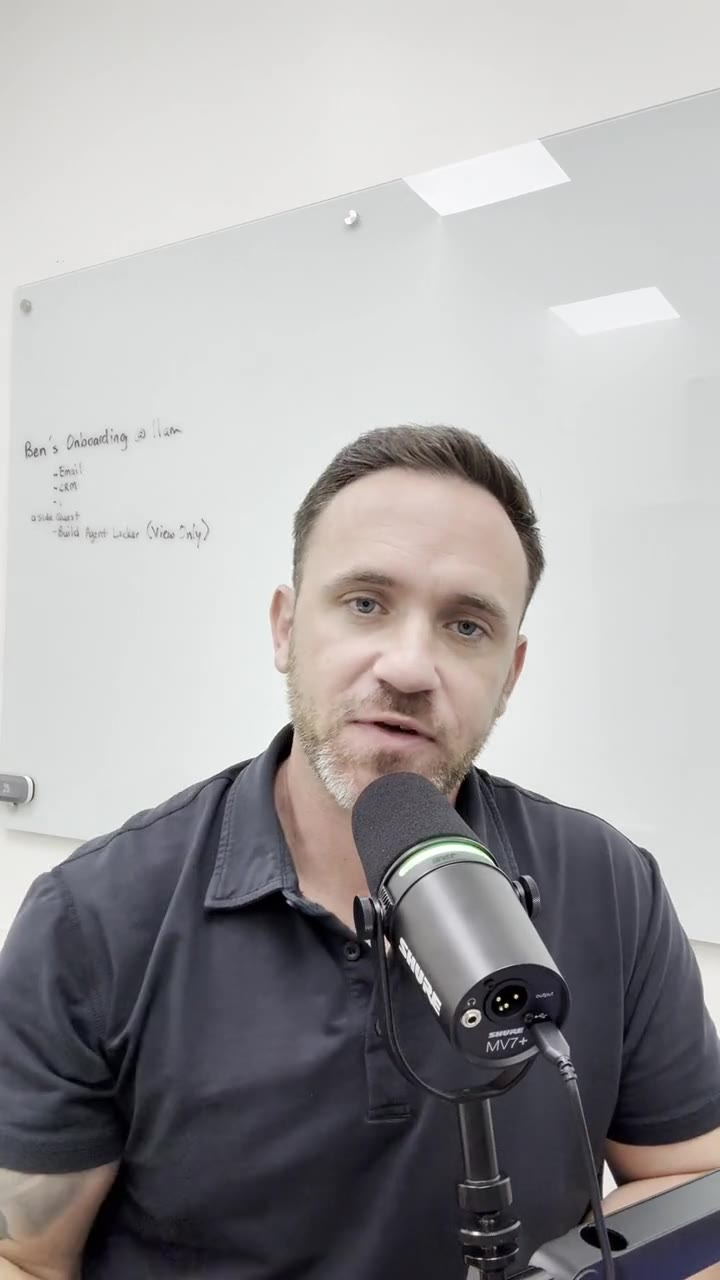
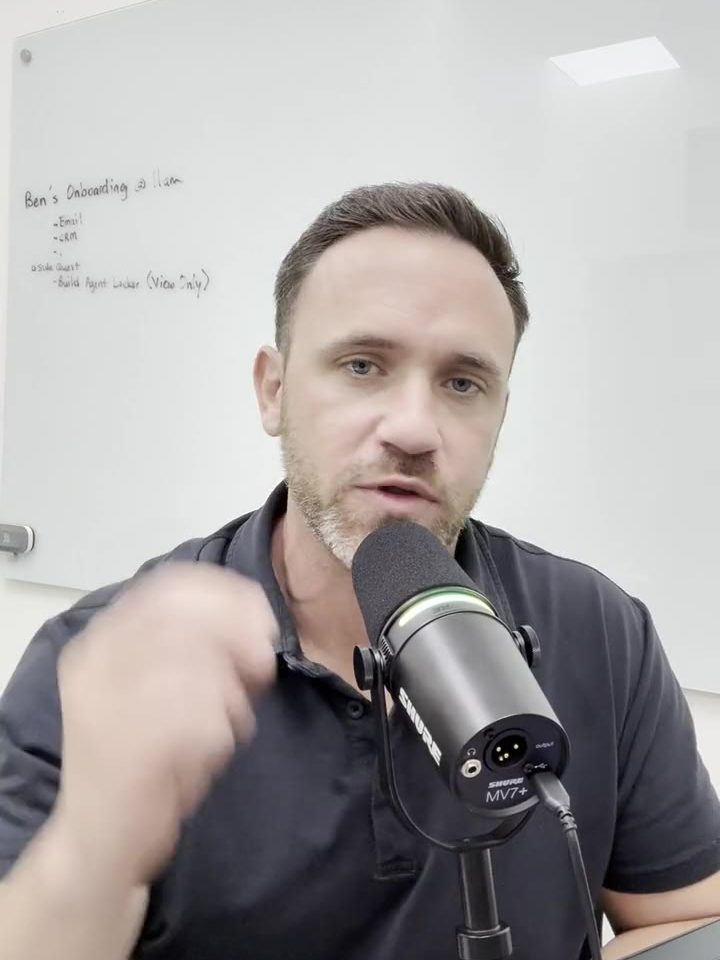
Fix the hero video card and recut its poster
The poster image was rendering at its raw 1280px attribute height
(missing height:auto meant the aspect-ratio never engaged), stretching
the hero card past the fold. The card now holds a 3:4 crop recut from a
livelier frame of the VSL, sized up slightly, with the full 9:16 video
still playing in the lightbox. The hero fits a single desktop viewport
again.

Claude-Session: https://claude.ai/code/session_016x4VnGuVg3frroGQGYtCCn

diff --git a/big-table/index.html b/big-table/index.html
@@ -181,13 +181,13 @@ html.js .reveal.in[data-d="2"]{transition-delay:.16s}
 @keyframes rise{to{opacity:1;transform:none}}
 
 /* the invitation — vertical VSL in a matted frame */
-.vsl{position:relative;justify-self:end;width:min(100%,340px)}
+.vsl{position:relative;justify-self:end;width:min(100%,380px)}
 .vsl-frame{
   position:relative;background:var(--stock-2);border:1px solid var(--rule-dim);
   padding:.7rem;box-shadow:0 30px 60px -32px rgba(0,0,0,.9);
 }
 .vsl-open{display:block;position:relative;width:100%;padding:0;border:0;background:none;cursor:pointer}
-.vsl-open img{width:100%;aspect-ratio:9/16;object-fit:cover;border:1px solid var(--rule);background:#000}
+.vsl-open img{width:100%;height:auto;aspect-ratio:3/4;object-fit:cover;object-position:center 30%;border:1px solid var(--rule);background:#000}
 .vsl-play{
   position:absolute;inset:0;display:flex;align-items:center;justify-content:center;
   background:rgba(8,9,12,.25);transition:background .3s;
@@ -495,7 +495,7 @@ FINISH: unreviewed and undocumented is unfinished; this build ends with the fini
       <div class="vsl hero-rise r3" id="video">
         <div class="vsl-frame">
           <button class="vsl-open js-watch" type="button" aria-label="Watch the invitation from Justin Stark">
-            <img src="/big-table/assets/vsl-poster.jpg" alt="" width="720" height="1280">
+            <img src="/big-table/assets/vsl-poster.jpg" alt="" width="720" height="960">
             <span class="vsl-play" aria-hidden="true">
               <svg width="84" height="84" viewBox="0 0 84 84" fill="none">
                 <circle cx="42" cy="42" r="40.5" stroke="#d4af37" stroke-width="1.4" fill="rgba(8,9,12,.55)"/>
